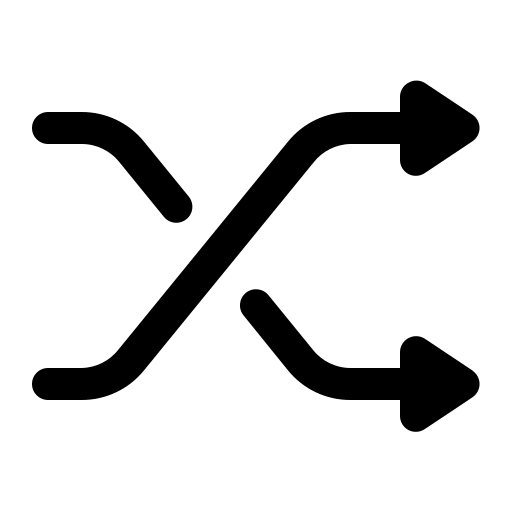
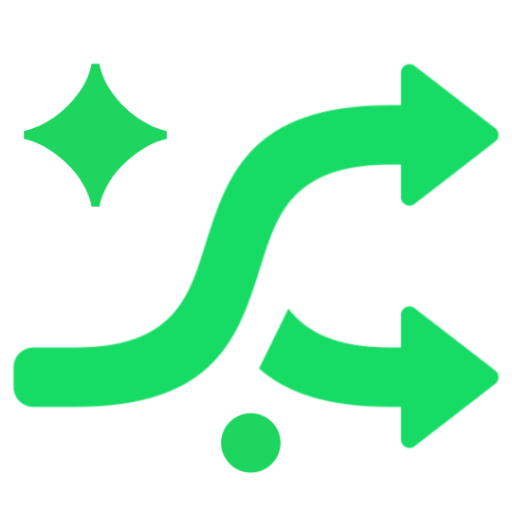
fix: ai chat toggles
Changelog :
  - Added Shuffles icon on Spotify-card.
  - Fix Spotify-card like/heart asset's offset.

Changed region(s): [[0.0, 0.125, 1.0, 0.875], [0.0312, 0.125, 0.375, 0.4375], [0.4062, 0.7812, 0.5625, 0.9375]]

diff --git a/src/helper/canvas/spotify-card.js b/src/helper/canvas/spotify-card.js
@@ -99,6 +99,11 @@ export class SpotifyCard {
 	#_toBuffer;
 
 	/**
+	 * @private
+	 */
+	#revampYCoords;
+
+	/**
 	 * Creates an instance of SpotifyCard.
 	 * @param {string} track
 	 * @param {{background?: { blur?: number | boolean, color?: string, gradient?: string }, cover?: { shadow?: number | boolean, round?: number | boolean }}} param1
@@ -183,6 +188,14 @@ export class SpotifyCard {
 		 * @private
 		 */
 		this.#_ctx = this.#_canvas.getContext('2d');
+
+		/**
+		 * Revamp the Y Coordinates of assets
+		 * @param {number} coords
+		 * @returns number
+		 * @private
+		 */
+		this.#revampYCoords = (coords) => coords + 100;
 
 		/**
 		 * Render Spotify Card
@@ -387,11 +400,13 @@ export class SpotifyCard {
 	 * @private
 	 */
 	putText() {
-		if (this.#_title.length > 22) {
-			this.#_title = `${this.#_title.slice(0, 22)}`;
+		if (this.#_title.length > 20) {
+			this.#_title = `${this.#_title.slice(0, 20)}`;
 		}
 
-		this.#_ctx.font = '62px texgy';
+		const x = this.#_w - 10;
+
+		this.#_ctx.font = '60px texgy';
 
 		const fadeOut = this.#_ctx.createLinearGradient(0, 0, this.#_w + 1500, 0);
 
@@ -399,12 +414,12 @@ export class SpotifyCard {
 		fadeOut.addColorStop(1, 'rgba(255, 255, 255, 0)');
 
 		this.#_ctx.fillStyle = fadeOut;
-		this.#_ctx.fillText(this.#_title, this.#_w - 10, this.#_canvas.height / 2 + 190);
+		this.#_ctx.fillText(this.#_title, x, this.#revampYCoords(this.#_canvas.height / 2 + 200));
 
 		this.#_ctx.font = '32px antre';
 
 		this.#_ctx.fillStyle = chroma('grey').brighten(2).hex();
-		this.#_ctx.fillText(this.#_artist, this.#_w - 10, this.#_canvas.height / 2 + 250);
+		this.#_ctx.fillText(this.#_artist, x, this.#revampYCoords(this.#_canvas.height / 2 + 250));
 
 		this.#_ctx.font = 'bold 32px lemon';
 		this.#_ctx.textAlign = 'center';
@@ -423,7 +438,7 @@ export class SpotifyCard {
 	 */
 	putPlayback() {
 		const centerX = this.#_w + 20;
-		const centerY = this.#_canvas.height / 2 + 310;
+		const centerY = this.#revampYCoords(this.#_canvas.height / 2 + 310);
 		const radius = 10;
 
 		this.#_ctx.font = '30px sans-regular';
@@ -544,17 +559,17 @@ export class SpotifyCard {
 		const n = 2.5;
 
 		const x = (w1) => this.#_canvas.width / (n - 0.5) - (w1 || w) / (n - 0.5);
-		const y = (h1) => this.#_canvas.height / (n - 0.5) - (h1 || h) / (n - 0.5) + 430;
+		const y = (h1) => this.#revampYCoords(this.#_canvas.height / (n - 0.5) - (h1 || h) / (n - 0.5) + 430);
 
 		this.#_ctx.drawImage(assets.model[`${iconType}_pause`], x(), y() + 40, w, h);
 
-		// this.#_ctx.drawImage(
-		// 	assets.model[`${iconType}_down_arrow`],
-		// 	x(w / (n - 0.3)) - 390,
-		// 	y(h / (n - 0.3)) - 1320,
-		// 	w / (n - 0.3),
-		// 	h / (n - 0.3)
-		// );
+		this.#_ctx.drawImage(
+			assets.model[`${iconType}_down_arrow`],
+			x(w / (n - 0.3)) - 390,
+			y(h / (n - 0.3)) - 1320 - this.#revampYCoords(0),
+			w / (n - 0.3),
+			h / (n - 0.3)
+		);
 		this.#_ctx.drawImage(
 			assets.model[`${iconType}_previous`],
 			x(w / (n + 0.5)) - 200,
@@ -570,11 +585,11 @@ export class SpotifyCard {
 			h / (n + 0.5)
 		);
 		this.#_ctx.drawImage(
-			assets.model[`${iconType}_heart`],
+			assets.model[`${iconType}_shuffle`],
 			x(w / (n + 0.5)) - 390,
 			y(h / (n + 0.5)),
 			w / (n + 0.5),
-			h / (n + 0.5)
+			h / (n + 0.2)
 		);
 		this.#_ctx.drawImage(
 			assets.model[`${iconType}_circle_diagonal`],
@@ -586,14 +601,14 @@ export class SpotifyCard {
 		this.#_ctx.drawImage(
 			assets.model[`${iconType}_share`],
 			x(w / (n + 2.1)) + 390,
-			y(h / (n + 2.1)) + 100,
+			y(h / (n + 2.1)) + 150,
 			w / (n + 2.1),
 			h / (n + 2.1)
 		);
 		this.#_ctx.drawImage(
 			assets.model[`${iconType}_speaker`],
 			x(w / (n + 0.7)) - 390,
-			y(h / (n + 0.7)) + 100,
+			y(h / (n + 0.7)) + 150,
 			w / (n + 0.7),
 			h / (n + 0.7)
 		);
@@ -606,9 +621,9 @@ export class SpotifyCard {
 			assets.model[`${iconType}_github`].height / 2
 		);
 		this.#_ctx.drawImage(
-			assets.model['1_spotify_likes'],
-			x(w / (n + 0.5)) + 390,
-			y(h / (n + 0.5)) - 180,
+			assets.model[`${iconType}_add`],
+			x(w / (n + 0.7)) + 390,
+			y(h / (n + 0.7)) - 220,
 			w / (n + 0.5),
 			h / (n + 0.5)
 		);

diff --git a/src/commands/ai/char-ai.js b/src/commands/ai/char-ai.js
@@ -14,7 +14,7 @@ export default {
 	cooldown: 3,
 	limit: 5,
 	status: 'enable',
-	async run({ args, query, from, cmd, message, groupMetadata, prefix }, client) {
+	async run({ args, query, from, cmd, message, groupMetadata, prefix, pushname }, client) {
 		if (!query) {
 			return await client.instance.reply(
 				`Please specify a command.\n\nUsage : \n${prefix + cmd} start\n${prefix + cmd} stop`,
@@ -31,7 +31,13 @@ export default {
 				return await client.instance.reply('You already chatting with AI', { from, quoted: message, groupMetadata });
 			}
 
-			configuration.user.charAI.set(from, new ChatGPTDialogue());
+			configuration.user.charAI.set(
+				from,
+				new ChatGPTDialogue({
+					name: pushname,
+					time: new Date().toLocaleString('id-ID', { timeZone: 'Asia/Jakarta' })
+				})
+			);
 
 			return await client.instance.reply('AI chat has been started', { from, quoted: message, groupMetadata });
 		}

diff --git a/src/handlers/messages_event/incoming-message.js b/src/handlers/messages_event/incoming-message.js
@@ -188,18 +188,6 @@ const handleCommandExecution = async (message, client, store, cmds, user, instan
 		}
 
 		if (!Tempcmds && !message.isGroup && configuration.OPTIONS.ai) {
-			const isSession = configuration.user.charAI.has(message.sender);
-
-			if (!isSession) {
-				configuration.user.charAI.set(
-					message.sender,
-					new ChatGPTDialogue({
-						name: message.pushname,
-						time: dayjs().format('ddd DD/MM/YYYY HH:mm')
-					})
-				);
-			}
-
 			await handleAIMessage(message, client);
 			return;
 		}

diff --git a/README.md b/README.md
@@ -2,11 +2,15 @@
 
 # SimplebotPRO3
 
+  <p>
+    <img src="src/media/terminal.png">
+  </p>
+
 ### Next-gen bot using Baileys-md, and latest version of simplebotPRO
 
 ---
-
 </div>
+
 
 # Table of Contents <a name='table'></a>
 
